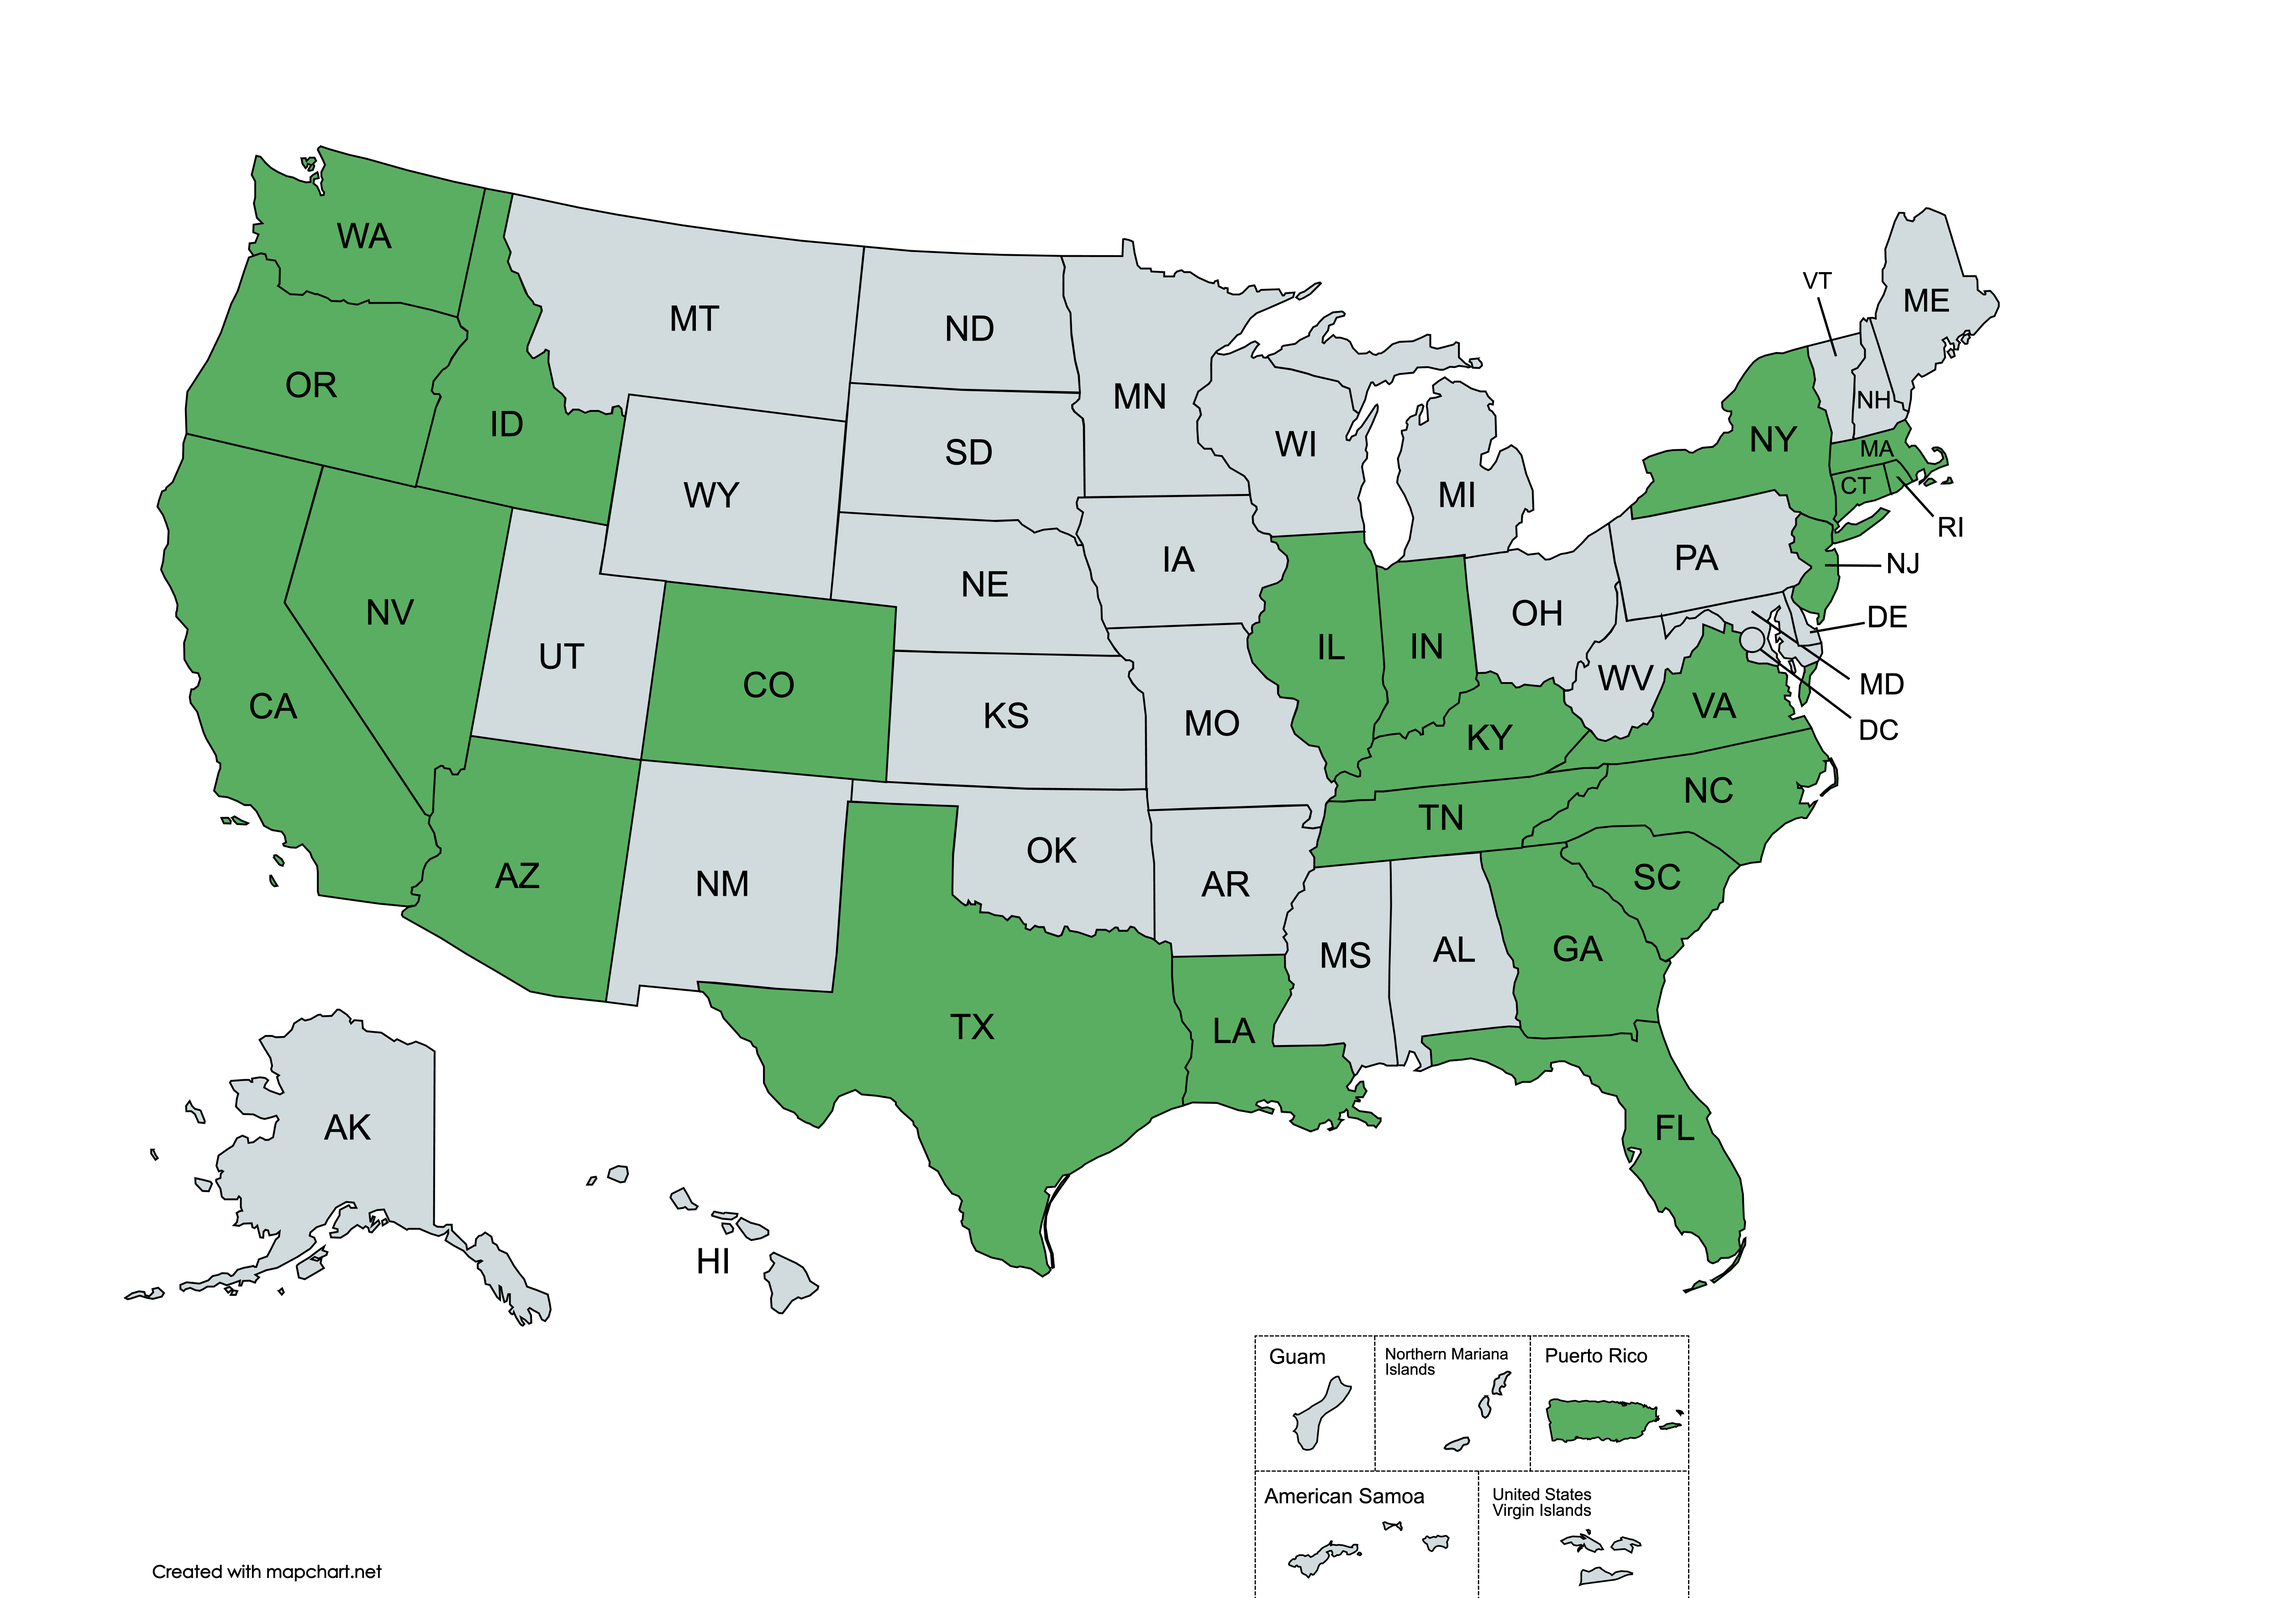
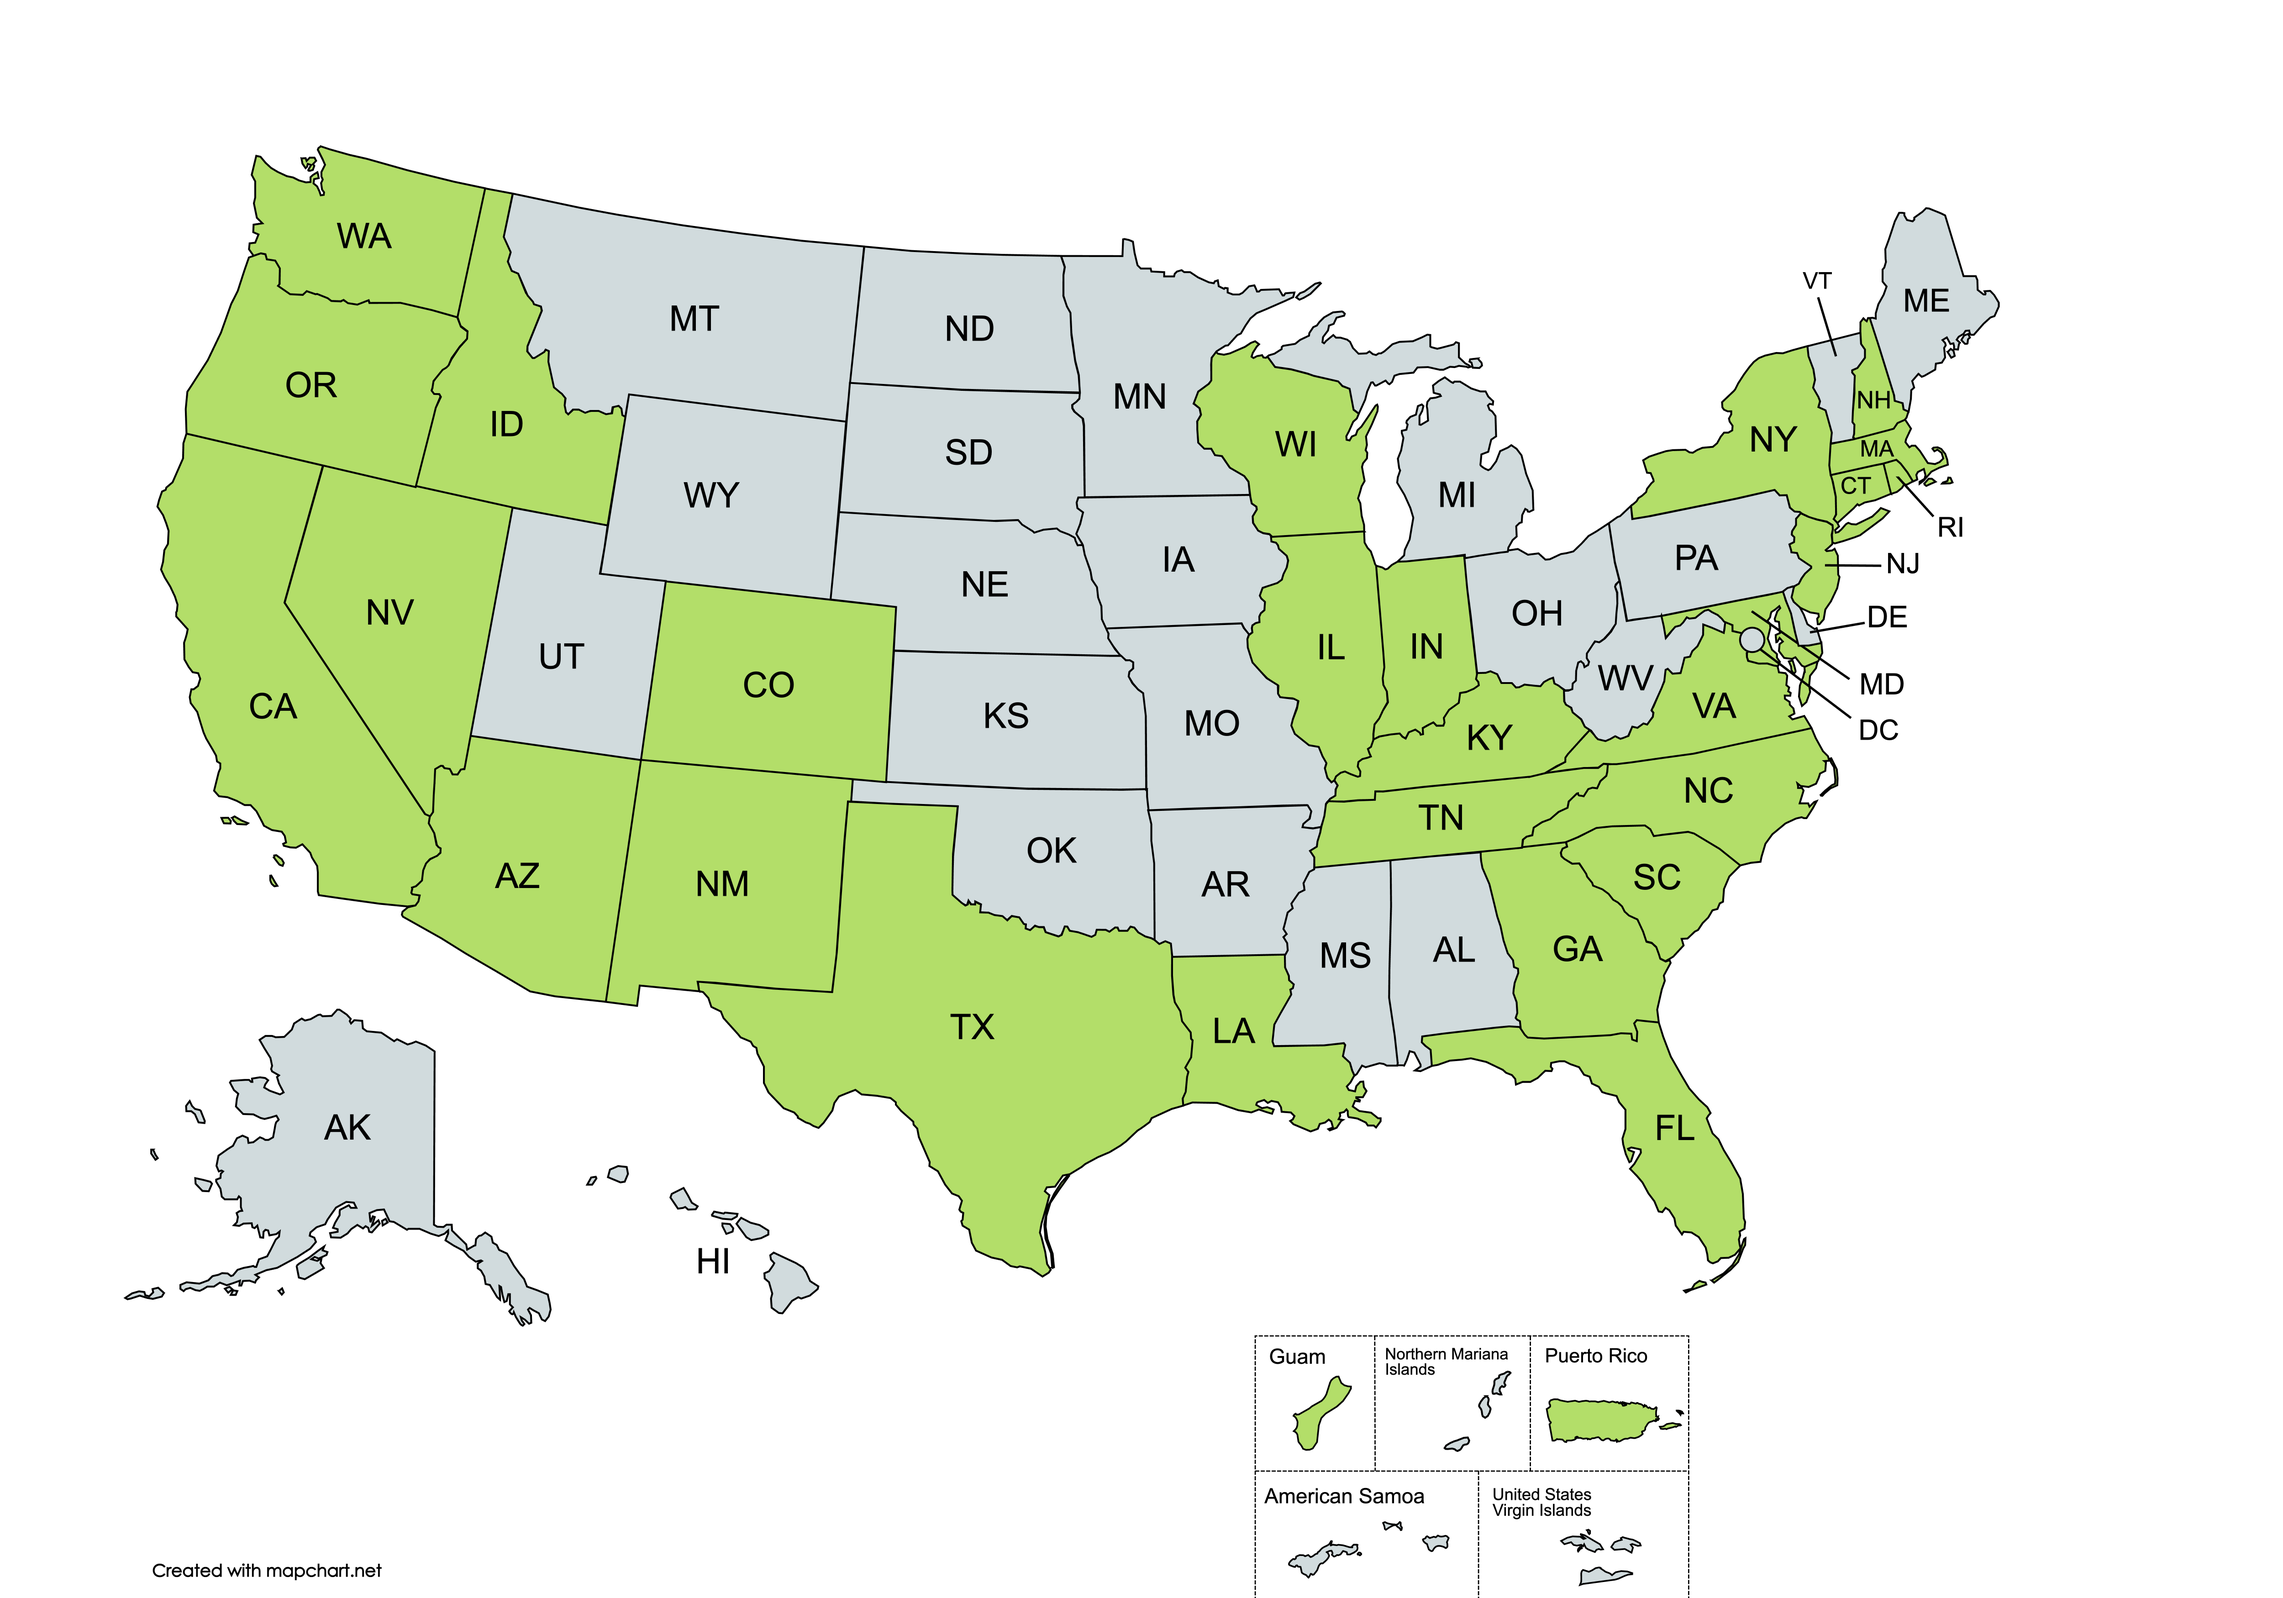
updatemaps

diff --git a/app/outreach/page.js b/app/outreach/page.js
@@ -11,9 +11,9 @@ export default function Outreach() {
         <div className={classes.hero}>
           <h1>Partner Organizations</h1>
           <p>
-            We have connection with organizations in 10 different states,
+            We have connection with organizations in 19 different states,
             allowing us to connect families with services in their local area.  
-              <Link href="/outreach/partners">Click here</Link> to connect with our partners.
+              <Link href="/outreach/partners"> Click here</Link> to connect with our partners.
           </p>
         </div>
         <div className={classes.imageContainer}>
